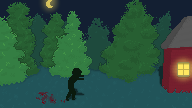
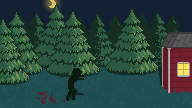
new menu background

diff --git a/map.js b/map.js
@@ -18,13 +18,13 @@ export default class Map extends Entity {
             [7, 7, 7, 0, 7, 0, 0, 7, 7, 7, 7, 7, 7, 0, 0, 0, 0, 0, 7, 7, 7, 7, 0, 0, 0, 0, 0, 0, 7, 7, 0, 0, 0, 0],
             [7, 7, 7, 0, 7, 0, 0, 7, 0, 7, 0, 0, 7, 7, 7, 0, 0, 0, 0, 7, 7, 7, 0, 0, 0, 0, 0, 0, 7, 0, 0, 0, 0, 0],
             [7, 7, 7, 0, 0, 0, 0, 0, 7, 7, 7, 7, 7, 7, 7, 0, 0, 0, 0, 7, 7, 0, 0, 0, 0, 7, 0, 0, 11, 0, 0, 0, 0, 0],
-            [7, 7, 0, 0, 0, 8, 9, 7, 7, 7, 7, 7, 7, 7, 0, 0, 0, 0, 0, 0, 0, 0, 0, 0, 0, 0, 0, 0, 11, 0, 0, 0, 0, 1],
+            [7, 7, 0, 0, 0, 8, 9, 7, 7, 7, 7, 7, 7, 7, 0, 0, 0, 0, 0, 0, 0, 0, 0, 0, 0, 0, 0, 0, 11, 0, 0, 0, 0, 7],
             [7, 7, 0, 0, 0, 15, 0, 7, 7, 7, 7, 7, 0, 0, 0, 0, 0, 0, 0, 0, 7, 7, 7, 0, 0, 0, 0, 0, 11, 0, 0, 0, 0, 0],
             [7, 7, 0, 0, 0, 15, 0, 0, 0, 7, 7, 0, 0, 0, 0, 0, 0, 0, 0, 7, 7, 7, 7, 0, 0, 0, 0, 0, 11, 0, 0, 0, 7, 0],
             [7, 7, 7, 0, 0, 15, 0, 0, 0, 0, 0, 0, 0, 0, 0, 0, 0, 16, 24, 24, 17, 7, 7, 0, 0, 0, 0, 0, 11, 0, 0, 0, 0, 0],
             [7, 7, 7, 0, 0, 15, 0, 0, 0, 0, 0, 0, 0, 0, 0, 0, 0, 22, 25, 25, 23, 7, 0, 0, 0, 0, 0, 7, 11, 0, 0, 0, 0, 0],
             [7, 7, 7, 0, 0, 15, 0, 0, 0, 0, 0, 0, 0, 0, 0, 0, 0, 18, 19, 20, 21, 0, 0, 0, 0, 0, 0, 0, 11, 0, 0, 0, 0, 0],
-            [7, 1, 7, 0, 0, 15, 0, 7, 7, 0, 0, 0, 0, 0, 0, 0, 0, 0, 0, 0, 0, 0, 0, 0, 0, 0, 0, 0, 11, 0, 0, 0, 0, 7],
+            [7, 7, 7, 0, 0, 15, 0, 7, 7, 0, 0, 0, 0, 0, 0, 0, 0, 0, 0, 0, 0, 0, 0, 0, 0, 0, 0, 0, 11, 0, 0, 0, 0, 7],
             [7, 7, 0, 0, 0, 15, 7, 7, 7, 0, 0, 0, 0, 0, 0, 0, 7, 0, 0, 0, 0, 0, 0, 0, 7, 0, 0, 0, 11, 0, 0, 0, 0, 7],
             [0, 0, 0, 0, 0, 15, 7, 7, 7, 7, 0, 0, 0, 0, 0, 7, 7, 7, 0, 0, 0, 0, 0, 0, 0, 0, 7, 0, 11, 7, 0, 0, 7, 7],
             [0, 0, 0, 0, 7, 15, 0, 7, 7, 7, 0, 0, 0, 7, 7, 7, 7, 7, 13, 13, 13, 13, 13, 13, 13, 13, 13, 13, 14, 7, 0, 0, 0, 7],
